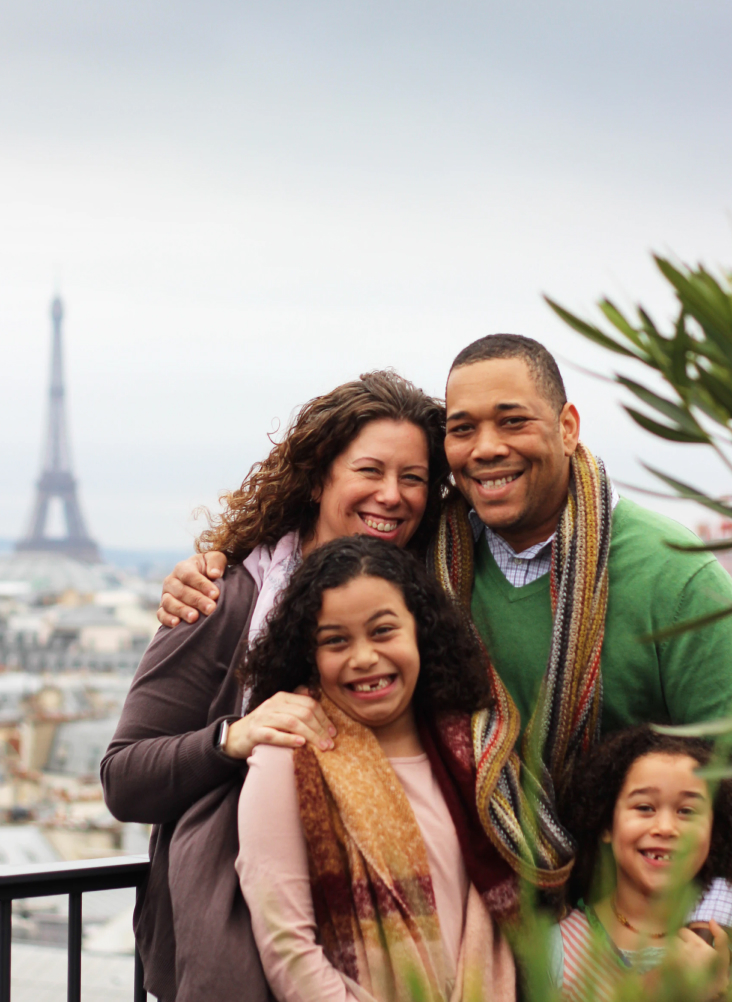
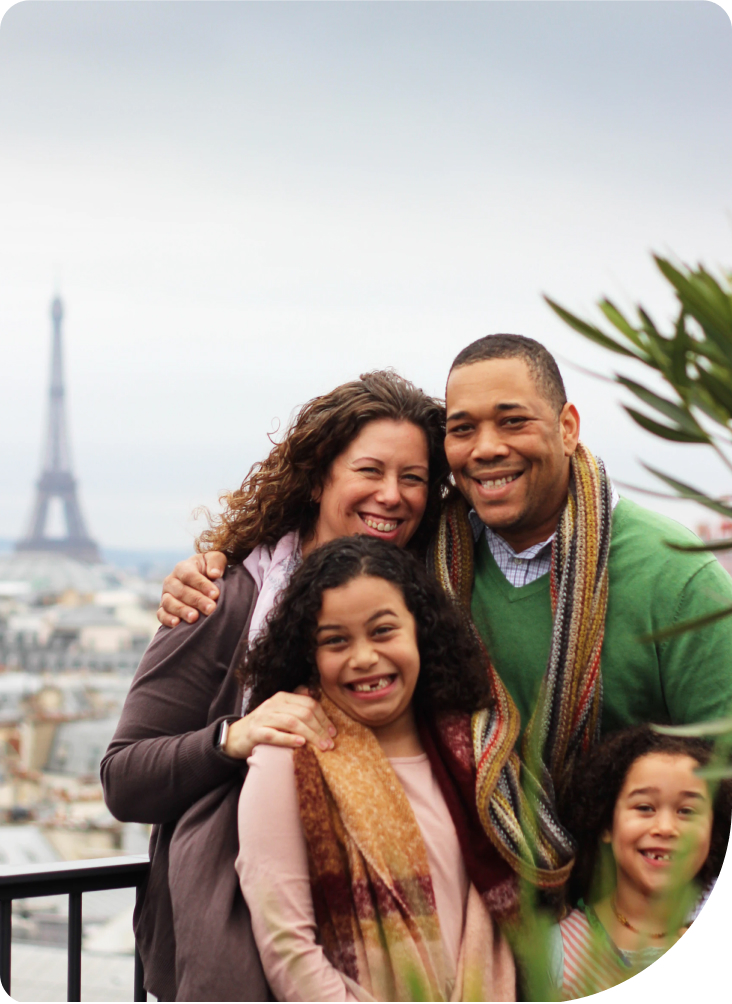
complete testimonial

diff --git a/src/parts/Testimony.js b/src/parts/Testimony.js
@@ -1,0 +1,50 @@
+import React from "react";
+import Star from "elements/Star";
+import TestimonyAccent from "assets/images/testimonial-image-frame.jpg";
+import Button from "elements/Button";
+export default function Testimony({ data }) {
+  return (
+    <section className="container">
+      <div className="row align-items-center">
+        <div className="col-auto" style={{ marginRight: 60 }}>
+          <div className="testimonial-hero" style={{ margin: `30px 0 0 30px` }}>
+            <img
+              className="position-absolute"
+              src={data.imageUrl}
+              alt="Testimonial"
+              style={{ zIndex: 1 }}
+            />
+            <img
+              className="position-absolute"
+              src={TestimonyAccent}
+              alt="Testimonial"
+              style={{ margin: "-30px 0 0 -30px" }}
+            />
+          </div>
+        </div>
+        <div className="col">
+          <h4 style={{ marginBottom: 40 }}>{data.name}</h4>
+          <Star value={data.rate} width={35} height={35} spacing={4} />
+          <h5 className="h2 font-weight-light line-height-2 my-3">
+            {data.content}
+          </h5>
+          <span className="text-gray-500">
+            {data.familyName}, {data.familyOccupation}
+          </span>
+          <div>
+            <Button
+              className="btn px-5"
+              style={{ marginTop: 40 }}
+              hasShadow
+              isPrimary
+              type="link"
+              href={`/testimonial/${data._id}`}
+            >
+              Read Their Story
+            </Button>
+          </div>
+        </div>
+      </div>
+    </section>
+  );
+}

diff --git a/src/elements/Star/index.js b/src/elements/Star/index.js
@@ -1,5 +1,6 @@
 import React from "react";
 import PropTypes from "prop-types";
+import "./index.scss";
 
 export default function Star({ value, height, width, spacing, className }) {
   const decimals = Number(value) % 1;
@@ -7,7 +8,7 @@ export default function Star({ value, height, width, spacing, className }) {
   let leftPos = 0;
 
   for (let index = 0; index < 5 && index < value - decimals; index++) {
-    leftPos += width;
+    leftPos = leftPos + width;
     star.push(
       <div
         className="star"
@@ -15,6 +16,7 @@ export default function Star({ value, height, width, spacing, className }) {
         style={{
           left: index * width,
           width: width,
+          height: height,
           marginRight: spacing,
         }}
       ></div>
@@ -25,10 +27,11 @@ export default function Star({ value, height, width, spacing, className }) {
     star.push(
       <div
         className="star"
-        key={`star-${index}`}
+        key={`starWithDecimal`}
         style={{
           left: leftPos,
-          width: width - spacing,
+          width: decimals * width - spacing,
+          height: height,
         }}
       ></div>
     );
@@ -42,6 +45,7 @@ export default function Star({ value, height, width, spacing, className }) {
         style={{
           left: index * width,
           width: width,
+          height: height,
           marginRight: spacing,
         }}
       ></div>

diff --git a/src/elements/Star/index.test.js b/src/elements/Star/index.test.js
@@ -1,0 +1,32 @@
+import React from "react";
+import { render } from "@testing-library/react";
+import Star from "./index";
+
+test("Should have props [value, height, width, spacing]", () => {
+  const height = 40;
+  const width = 40;
+  const spacing = 4;
+  const { container } = render(
+    <Star width={width} height={height} spacing={spacing} value={3.6} />
+  );
+  const starYellow = "div.stars div.star:not(.placeholder)";
+
+  expect(container.querySelector("div.stars")).toBeInTheDocument();
+  expect(container.querySelector("div.stars")).toHaveAttribute(
+    "style",
+    expect.stringContaining(`height: ${height}px`)
+  );
+  expect(container.querySelector(starYellow)).toBeInTheDocument();
+  expect(container.querySelector(starYellow)).toHaveAttribute(
+    "style",
+    expect.stringContaining(`width: ${width}px`)
+  );
+  expect(container.querySelector(starYellow)).toHaveAttribute(
+    "style",
+    expect.stringContaining(`height: ${height}px`)
+  );
+  expect(container.querySelector(starYellow)).toHaveAttribute(
+    "style",
+    expect.stringContaining(`margin-right: ${spacing}px`)
+  );
+});

diff --git a/src/assets/scss/_variables.scss b/src/assets/scss/_variables.scss
@@ -5,17 +5,7 @@
 
 // Color system
 
-$white:    #fff !default;
-$gray-100: #f8f9fa !default;
-$gray-200: #e9ecef !default;
-$gray-300: #dee2e6 !default;
-$gray-400: #ced4da !default;
-$gray-500: #adb5bd !default;
-$gray-600: #6c757d !default;
-$gray-700: #495057 !default;
-$gray-800: #343a40 !default;
-$gray-900: #152c5b !default;
-$black:    #000 !default;
+
 
 $grays: () !default;
 // stylelint-disable-next-line scss/dollar-variable-default
@@ -34,16 +24,7 @@ $grays: map-merge(
   $grays
 );
 
-$blue:    #007bff !default;
-$indigo:  #3252df !default;
-$purple:  #6f42c1 !default;
-$pink:    #FF498B !default;
-$red:     #dc3545 !default;
-$orange:  #fd7e14 !default;
-$yellow:  #ffc107 !default;
-$green:   #28a745 !default;
-$teal:    #20c997 !default;
-$cyan:    #17a2b8 !default;
+
 
 $colors: () !default;
 // stylelint-disable-next-line scss/dollar-variable-default

diff --git a/src/pages/LandingPage.js b/src/pages/LandingPage.js
@@ -4,6 +4,7 @@ import landingPage from "json/landingPage.json";
 import Hero from "parts/Hero";
 import MostPicked from "parts/MostPicked";
 import Categories from "parts/Categories";
+import Testimony from "parts/Testimony";
 
 export default class LandingPage extends Component {
   constructor(props) {
@@ -19,7 +20,8 @@ export default class LandingPage extends Component {
           refMostPicked={this.refMostPicked}
           data={landingPage.mostPicked}
         />
-        <Categories data={landingPage.categories}></Categories>
+        <Categories data={landingPage.categories} />
+        <Testimony data={landingPage.testimonial} />
       </>
     );
   }

diff --git a/src/assets/scss/_colorVariables.scss b/src/assets/scss/_colorVariables.scss
@@ -1,0 +1,22 @@
+$white:    #fff !default;
+$gray-100: #f8f9fa !default;
+$gray-200: #e9ecef !default;
+$gray-300: #dee2e6 !default;
+$gray-400: #ced4da !default;
+$gray-500: #adb5bd !default;
+$gray-600: #6c757d !default;
+$gray-700: #495057 !default;
+$gray-800: #343a40 !default;
+$gray-900: #152c5b !default;
+$black:    #000 !default;
+
+$blue:    #007bff !default;
+$indigo:  #3252df !default;
+$purple:  #6f42c1 !default;
+$pink:    #FF498B !default;
+$red:     #dc3545 !default;
+$orange:  #fd7e14 !default;
+$yellow:  #ffc107 !default;
+$green:   #28a745 !default;
+$teal:    #20c997 !default;
+$cyan:    #17a2b8 !default;

diff --git a/src/elements/Star/index.scss b/src/elements/Star/index.scss
@@ -1,0 +1,21 @@
+@import '../../assets/scss/colorVariables';
+
+.stars{
+    position: relative;
+    min-width: 200px;
+    display: inline-flex;
+    .star {
+        position: absolute;
+        z-index: 2;
+        display: inline-flex;
+        mask:url(../../assets/images/icons/ic_star.svg) no-repeat center left;
+        &:not(.placeholder){
+            z-index: 2;
+            background-color: $yellow;
+        }
+        &.placeholder{
+            z-index: 1;
+            background-color: $gray-200;
+        }
+    }
+}

diff --git a/src/assets/scss/style.scss b/src/assets/scss/style.scss
@@ -6,6 +6,7 @@
  */
 
 @import url("https://fonts.googleapis.com/css?family=Poppins:300,400,500,700&display=swap");
+@import "colorVariables";
 @import "functions";
 @import "variables";
 @import "mixins";
@@ -198,4 +199,9 @@ section {
             }
         }
     }
+}
+
+.testimonial-hero, .testimonial-hero img {
+    width: 365px;
+    height: 500px;
 }

diff --git a/src/assets/scss/_buttons.scss b/src/assets/scss/_buttons.scss
@@ -5,7 +5,8 @@
 //
 
 .btn {
-  display: inline-block;
+  display: inline-flex;
+  align-items: center;
   font-family: $btn-font-family;
   font-weight: $btn-font-weight;
   color: $body-color;
